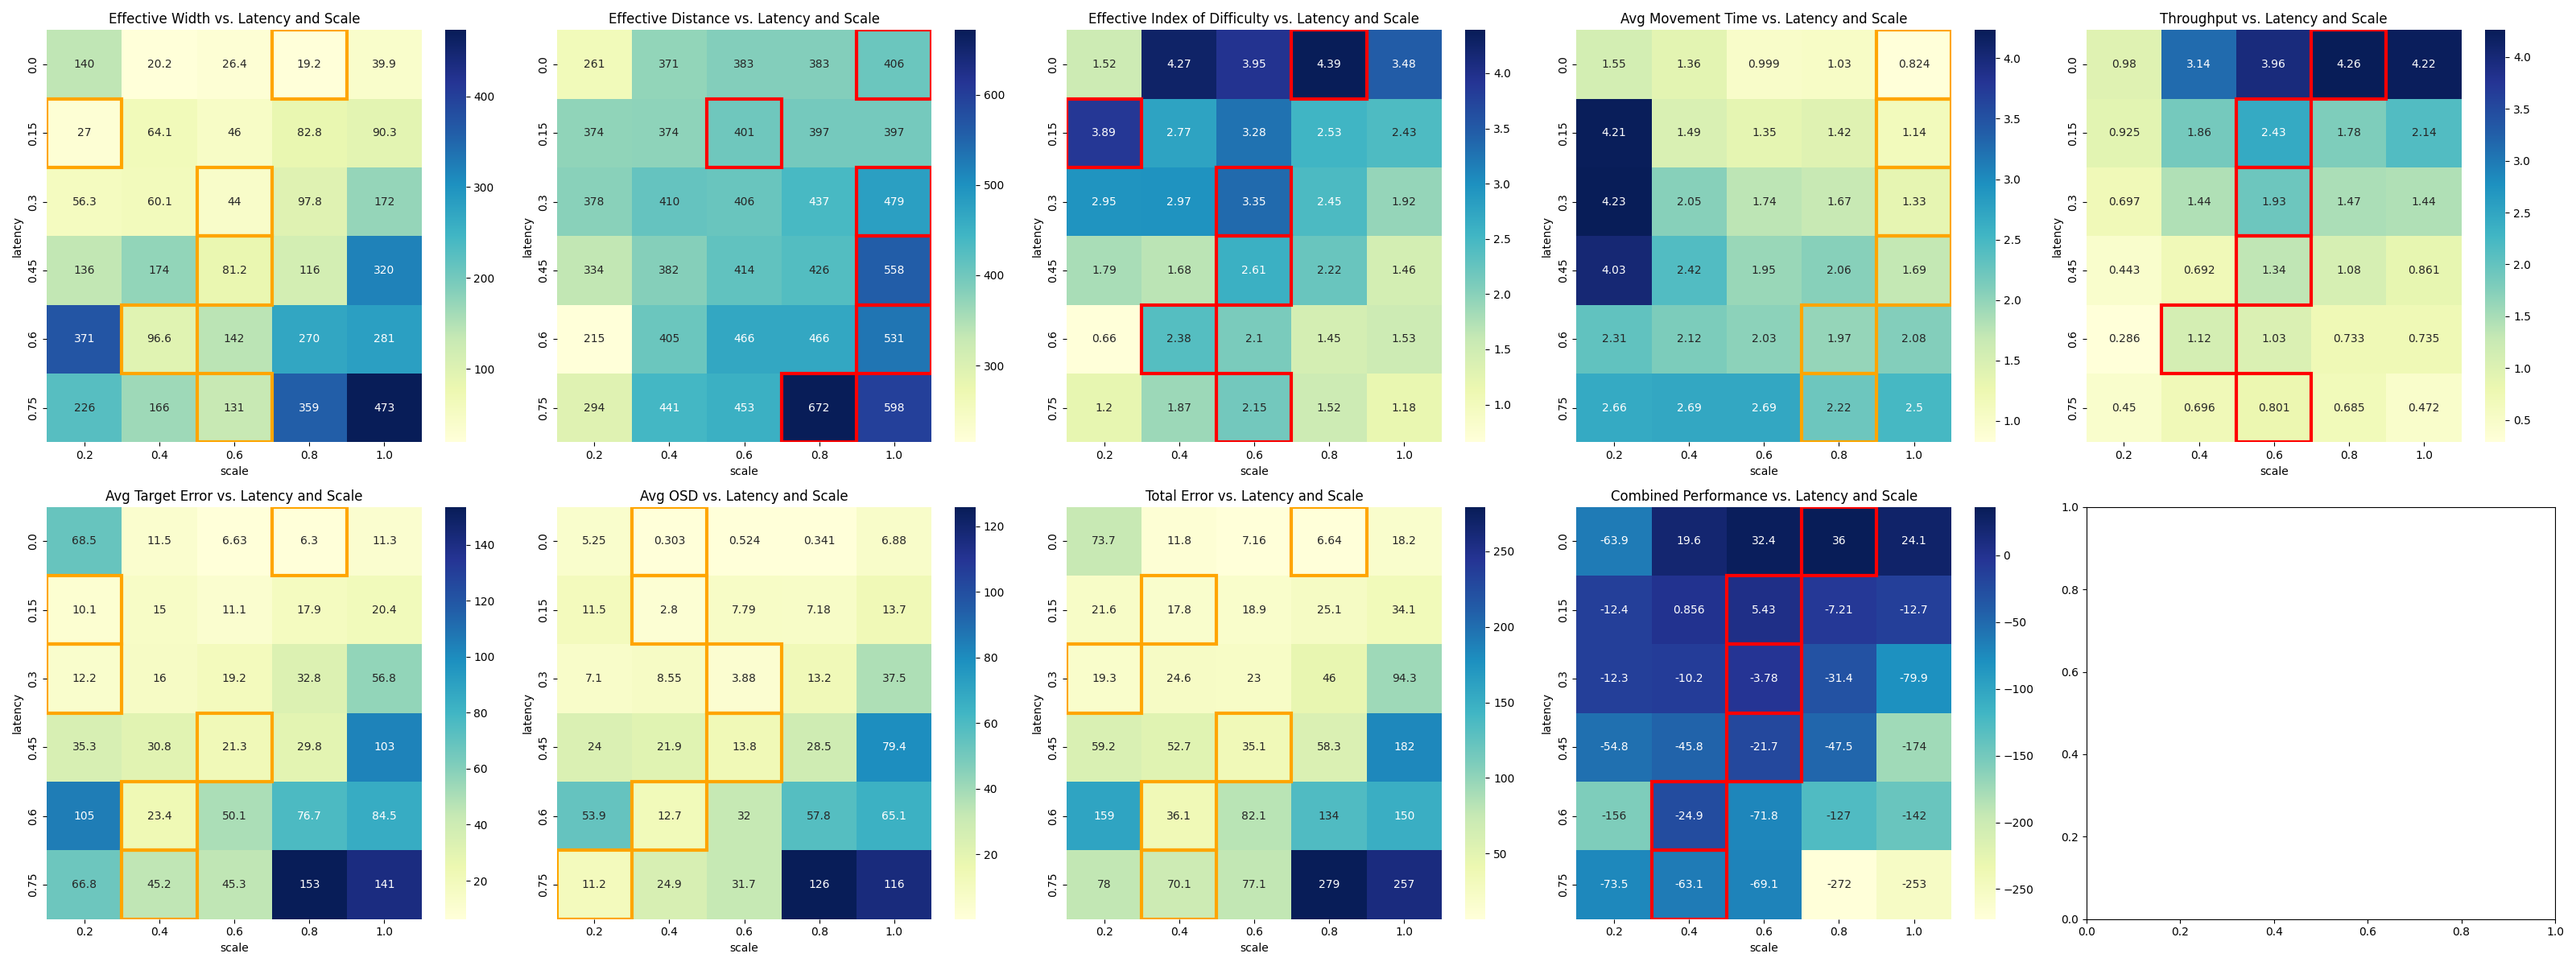
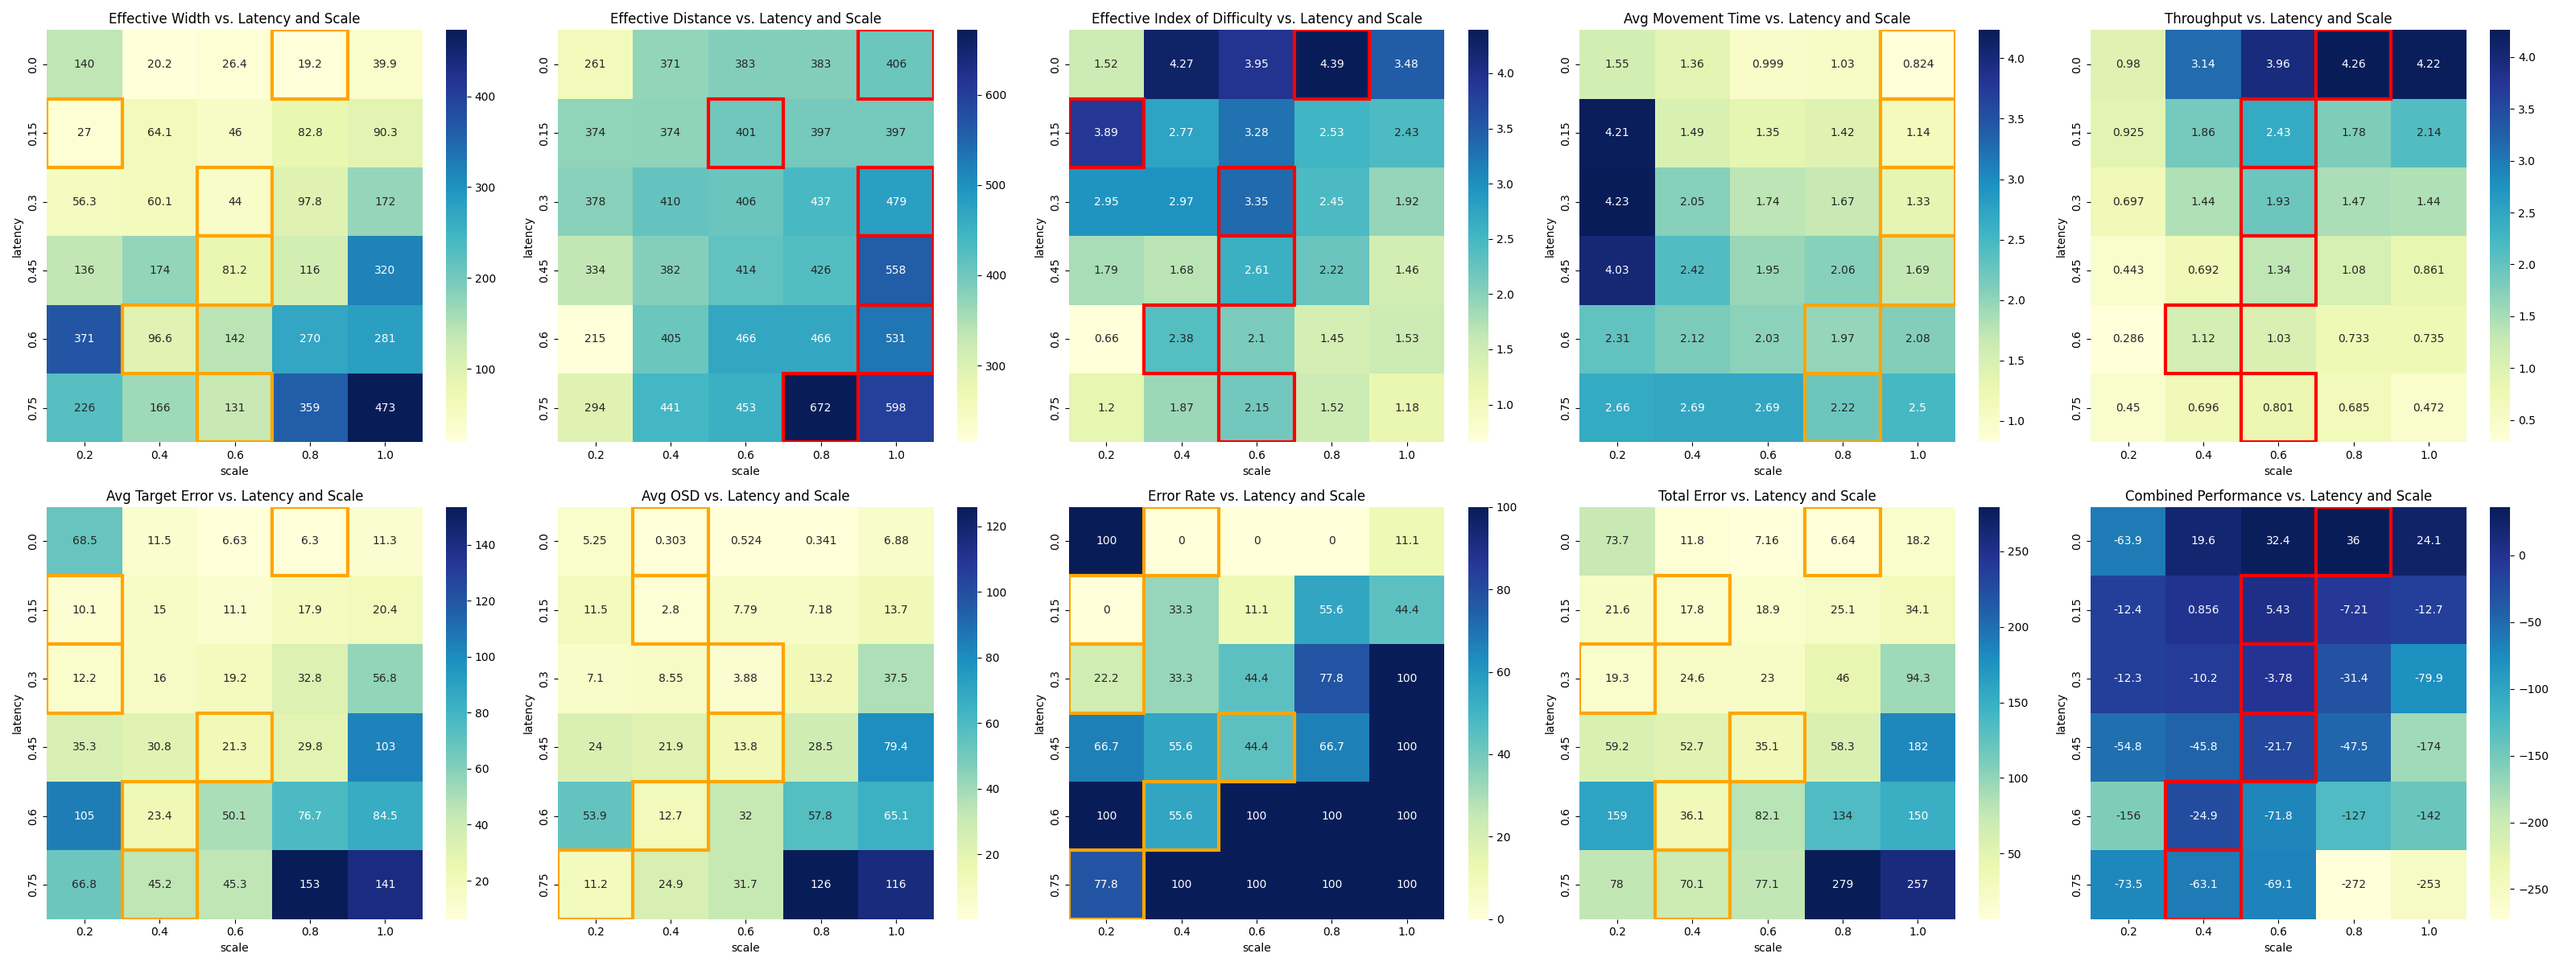
modeled datasets with polynomial regression

diff --git a/model_poly.py b/model_poly.py
@@ -7,53 +7,69 @@ from sklearn.metrics import mean_squared_error
 from matplotlib import pyplot as plt
 import seaborn as sns
 
-# Read in data
-df = pd.read_csv('data_files/set1/metric_df.csv')
+def annotate_extrema(data, ax, extrema_type='max'):
+    if extrema_type == 'max':
+        extrema_index = np.argmax(data, axis=1)
+        color = 'red'
+    if extrema_type == 'min':
+        extrema_index = np.argmin(data, axis=1)
+        color = 'orange'
+    for i, max_col in enumerate(extrema_index):
+        ax.add_patch(plt.Rectangle((max_col, i), 1, 1, fill=False, edgecolor=color, lw=3))
 
-latency_vals = [0.0, 0.15, 0.3, 0.45, 0.6, 0.75]
-scale_vals = [0.2, 0.4, 0.6, 0.8, 1.0]
+for set_num in range(2, 7):
+    # Read in data
+#    set_num = 6
+    data_folder = f"data_files/set{set_num}"
+    df = pd.read_csv(f'{data_folder}/metric_df.csv')
 
-# Extracting the independent variables and the dependent variable
-X = df[['latency', 'scale']]
-y = df['combo_metric']
+    latency_vals = [0.0, 0.2, 0.4, 0.6, 0.8]
+    scale_vals = [0.4, 0.6, 0.8, 1.0, 1.2]
 
-# Creating polynomial features
-degrees = [2, 3, 4]  # List of degrees for different models
+    # Extracting the independent variables and the dependent variable
+    X = df[['latency', 'scale']]
+    df['combo'] = 10*df['throughput'] - df['avg_osd'] - df['avg_target_error']
+    y = df['combo']
 
-fig, axes = plt.subplots(1, len(degrees) + 1, figsize=(5 * (len(degrees) + 1), 6))  # Adjusting subplots
+    # Creating polynomial features
+    degrees = [2, 3, 4]  # List of degrees for different models
 
-for i, degree in enumerate(degrees):
-    poly = PolynomialFeatures(degree=degree, include_bias=False)
-    X_poly = poly.fit_transform(X)
+    fig, axes = plt.subplots(1, len(degrees) + 1, figsize=(5 * (len(degrees) + 1), 6))  # Adjusting subplots
 
-    # Fitting the polynomial features to Linear Regression
-    model = LinearRegression()
-    model.fit(X_poly, y)
+    for i, degree in enumerate(degrees):
+        poly = PolynomialFeatures(degree=degree, include_bias=False)
+        X_poly = poly.fit_transform(X)
 
-    # Calculating Mean Squared Error
-    y_pred = model.predict(X_poly)
-    mse = mean_squared_error(y, y_pred)
+        # Fitting the polynomial features to Linear Regression
+        model = LinearRegression()
+        model.fit(X_poly, y)
 
-    # Plot surface predicted by model
-    mesh_df = pd.DataFrame([[i, j] for i in latency_vals for j in scale_vals], columns=['latency', 'scale'])
-    X_mesh = mesh_df[['latency', 'scale']]
-    X_mesh_poly = poly.fit_transform(X_mesh)
+        # Calculating Mean Squared Error
+        y_pred = model.predict(X_poly)
+        mse = mean_squared_error(y, y_pred)
 
-    # Predicting the values for the meshgrid
-    predicted_values = model.predict(X_mesh_poly)
+        # Plot surface predicted by model
+        mesh_df = pd.DataFrame([[i, j] for i in latency_vals for j in scale_vals], columns=['latency', 'scale'])
+        X_mesh = mesh_df[['latency', 'scale']]
+        X_mesh_poly = poly.fit_transform(X_mesh)
 
-    mesh_df[f'predicted_{degree}'] = predicted_values
+        # Predicting the values for the meshgrid
+        predicted_values = model.predict(X_mesh_poly)
 
-    # Plotting the heatmaps
-    heatmap_predicted = mesh_df.pivot(
-        index='latency', columns='scale', values=f'predicted_{degree}')
-    sns.heatmap(heatmap_predicted, ax=axes[i + 1], annot=True, cmap='YlGnBu')
-    axes[i + 1].set_title(f'Predicted Surface using {degree}th Order Polynomial Regression\nMSE: {mse:.2f}')
+        mesh_df[f'predicted_{degree}'] = predicted_values
 
-heatmap_original = df.pivot(
-    index='latency', columns='scale', values='combo_metric')
-sns.heatmap(heatmap_original, ax=axes[0], cmap="YlGnBu", annot=True)
-axes[0].set_title('Performance Metric vs. Latency and Scale')
-plt.tight_layout()
-plt.savefig('figures/set1_poly_model_results.png')
-plt.show()
+        # Plotting the heatmaps
+        heatmap_predicted = mesh_df.pivot(
+            index='latency', columns='scale', values=f'predicted_{degree}')
+        ax = sns.heatmap(heatmap_predicted, ax=axes[i + 1], annot=True, cmap='YlGnBu')
+        axes[i + 1].set_title(f'Predicted Surface using {degree}th Order Polynomial Regression\nMSE: {mse:.2f}')
+        annotate_extrema(heatmap_predicted.values, ax, extrema_type='max')
+
+    heatmap_original = df.pivot(
+        index='latency', columns='scale', values='combo')
+    ax = sns.heatmap(heatmap_original, ax=axes[0], cmap="YlGnBu", annot=True)
+    axes[0].set_title('Combined Performance vs. Latency and Scale')
+    annotate_extrema(heatmap_original.values, ax, extrema_type='max')
+    plt.tight_layout()
+    plt.savefig(f'{data_folder}/TPcombo_poly_model_results.png')
+    plt.show()

diff --git a/process.py b/process.py
@@ -162,20 +162,27 @@ def plot_all_heatmaps(metric_df, data_folder):
     axes[1, 1].set_title('Avg OSD vs. Latency and Scale')
     annotate_extrema(heatmap_osd.values, ax, extrema_type='min')
 
+    # Plot heatmap for error percentage
+    heatmap_error_rate = metric_df.pivot(
+        index='latency', columns='scale', values='target_error_rate')
+    ax = sns.heatmap(heatmap_error_rate, ax=axes[1, 2], cmap="YlGnBu", annot=True, fmt='.3g')
+    axes[1, 2].set_title('Error Rate vs. Latency and Scale')
+    annotate_extrema(heatmap_error_rate.values, ax, extrema_type='min')
+
     # Plot heatmap for total error (target deviation + osd)
     metric_df['total_error'] = metric_df['avg_osd'] + metric_df['avg_target_error']
     heatmap_error = metric_df.pivot(
         index='latency', columns='scale', values='total_error')
-    ax = sns.heatmap(heatmap_error, ax=axes[1, 2], cmap="YlGnBu", annot=True, fmt='.3g')
-    axes[1, 2].set_title('Total Error vs. Latency and Scale')
+    ax = sns.heatmap(heatmap_error, ax=axes[1, 3], cmap="YlGnBu", annot=True, fmt='.3g')
+    axes[1, 3].set_title('Total Error vs. Latency and Scale')
     annotate_extrema(heatmap_error.values, ax, extrema_type='min')
 
     # Plot heatmap for combined performance (movement speed - total error)
     metric_df['combo'] = 10*metric_df['throughput'] - metric_df['total_error']
     heatmap_combo = metric_df.pivot(
         index='latency', columns='scale', values='combo')
-    ax = sns.heatmap(heatmap_combo, ax=axes[1, 3], cmap="YlGnBu", annot=True, fmt='.3g')
-    axes[1, 3].set_title('Combined Performance vs. Latency and Scale')
+    ax = sns.heatmap(heatmap_combo, ax=axes[1, 4], cmap="YlGnBu", annot=True, fmt='.3g')
+    axes[1, 4].set_title('Combined Performance vs. Latency and Scale')
     annotate_extrema(heatmap_combo.values, ax, extrema_type='max')
 
 
@@ -364,6 +371,7 @@ if __name__ == "__main__":
             avg_movement_speed = np.mean(np.array(movement_distances) / np.array(movement_times))
             avg_target_error = np.mean(target_errors)
             total_target_error = np.sum(target_errors)
+            target_error_rate = (sum(1 for error in target_errors if error > 20) / len(target_errors)) * 100
             effective_distance = np.mean(movement_distances)
             end_point_std = np.linalg.norm(np.std(np.array(end_points), axis=0)) # standard deviation of end point scatter
             effective_width = 4.133 * end_point_std
@@ -377,7 +385,7 @@ if __name__ == "__main__":
 
             metric_data.append([latency, scale, effective_difficulty, avg_movement_time, throughput,
                                 avg_target_error, avg_movement_speed, effective_width, effective_distance,
-                                avg_osd])
+                                avg_osd, target_error_rate])
             
                 
             #     time = np.array(segment["time"])
@@ -453,7 +461,7 @@ if __name__ == "__main__":
                 
     metric_df = pd.DataFrame(metric_data, columns=['latency', 'scale', 'effective_difficulty', 'avg_movement_time',
                                                    'throughput', 'avg_target_error', 'avg_movement_speed',
-                                                   'effective_width', 'effective_distance', 'avg_osd'])
+                                                   'effective_width', 'effective_distance', 'avg_osd', 'target_error_rate'])
     metric_df.to_csv(f'{data_folder}/metric_df.csv')
     plot_all_heatmaps(metric_df, data_folder)
 #    plot_key_heatmaps(metric_df, data_folder)
